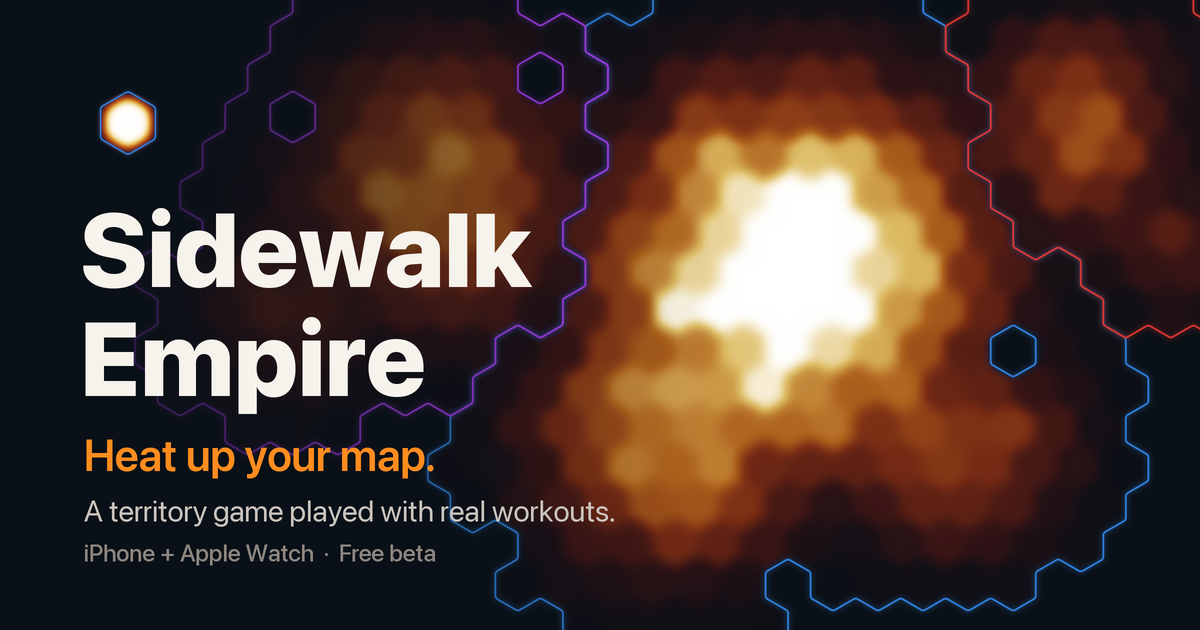
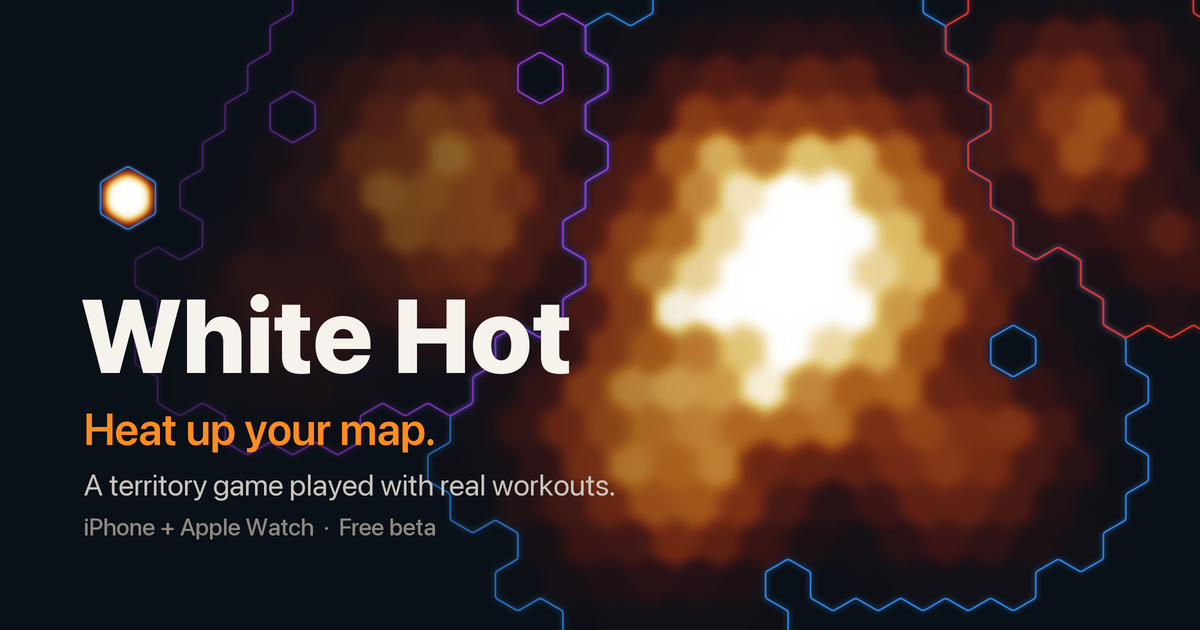
Back to White Hot until the new name is settled
Reverts "The game is Sidewalk Empire". Ben's condition for going ahead with that
name (the Sidewalk Empire Media YouTube channel quiet for two years) isn't met:
it posted on 2026-11-18. The change went up early on Claude's misreading.

Changed region(s): [[0.0617, 0.1508, 0.5242, 0.9048]]

diff --git a/index.html b/index.html
@@ -3,13 +3,13 @@
 <head>
   <meta charset="utf-8" />
   <meta name="viewport" content="width=device-width, initial-scale=1" />
-  <title>Sidewalk Empire: Heat up your map</title>
+  <title>White Hot: Heat up your map</title>
   <meta name="description" content="A territory game you play by working out. Every unclaimed tile you cross becomes yours, and it heats up each time you come back, from dull red to white hot. iPhone + Apple Watch." />
   <meta name="theme-color" content="#0a1017" />
 
   <!-- Open Graph / sharing -->
   <meta property="og:type" content="website" />
-  <meta property="og:title" content="Sidewalk Empire: Heat up your map" />
+  <meta property="og:title" content="White Hot: Heat up your map" />
   <meta property="og:description" content="A territory game you play by working out. Every unclaimed tile you cross becomes yours, and it heats up each time you come back. iPhone + Apple Watch." />
   <meta property="og:image" content="https://whitehot.yourstrategy.co/og-image.png" />
   <meta name="twitter:card" content="summary_large_image" />
@@ -21,7 +21,7 @@
 <body>
 
   <header class="site-header">
-    <a class="wordmark" href="#top"><img class="wordmark-icon" src="assets/app-icon.png" alt="" />Sidewalk Empire</a>
+    <a class="wordmark" href="#top"><img class="wordmark-icon" src="assets/app-icon.png" alt="" />White Hot</a>
     <a class="btn btn-glass btn-sm" href="https://testflight.apple.com/join/whPgeGpH">Join the beta</a>
   </header>
 
@@ -48,7 +48,7 @@
 
         <div class="hero-art">
           <div class="phone">
-            <img src="assets/screenshot.jpg" alt="Sidewalk Empire: a player's territory glowing from red to white hot on the map, with neighbours' borders at the edges" class="phone-screen" />
+            <img src="assets/screenshot.jpg" alt="White Hot: a player's territory glowing from red to white hot on the map, with neighbours' borders at the edges" class="phone-screen" />
           </div>
         </div>
       </div>
@@ -177,7 +177,7 @@
 
   <footer class="site-footer">
     <div class="wrap footer-inner">
-      <span class="footer-mark">Sidewalk Empire</span>
+      <span class="footer-mark">White Hot</span>
       <span class="footer-copy">© 2026</span>
     </div>
   </footer>

diff --git a/styles.css b/styles.css
@@ -1,4 +1,4 @@
-/* Sidewalk Empire — the game's own look (2026-10-21): the dark map's ground, the heat ramp
+/* White Hot — the game's own look (2026-10-21): the dark map's ground, the heat ramp
    tiles glow on (dull red → cherry → orange → yellow → white hot, App/ReverdureApp/
    Map/HeatRamp.swift), the ember the play button wears, and Liquid Glass panels.
    Mobile-first. The share landing page (server/app/routes/share.py) copies these
@@ -92,9 +92,6 @@ h1, h2, h3 { color: var(--ink); margin: 0; letter-spacing: -0.02em; }
   font-weight: 800; font-size: 1.15rem; letter-spacing: -0.01em;
 }
 .wordmark-icon { width: 30px; height: 30px; border-radius: 8px; }
-/* The name is fifteen letters: keep it on one line, smaller on the narrowest phones. */
-.wordmark { white-space: nowrap; }
-@media (max-width: 360px) { .wordmark { font-size: 1rem; gap: 8px; } }
 
 /* BUTTONS — capsules, the app's */
 .btn {

diff --git a/tools/make_assets.py b/tools/make_assets.py
@@ -1,10 +1,10 @@
-"""Sidewalk Empire's site art (2026-10-21), from territory drawn by the game's own map code:
+"""White Hot's site art (2026-10-21), from territory drawn by the game's own map code:
 the game repo's ``scripts/brand/render-territory`` bakes ground through the app's
 ``HeatField`` (the map's heat overlay) with its borders, the way the map draws it.
 
-    # in the game repo (SidewalkEmpire):
-    swiftc -O -o /tmp/render-territory App/SidewalkEmpireApp/Map/HeatRamp.swift \
-        App/SidewalkEmpireApp/Map/HeatField.swift App/SidewalkEmpireApp/Map/RoundedPath.swift \
+    # in the game repo (Reverdure):
+    swiftc -O -o /tmp/render-territory App/ReverdureApp/Map/HeatRamp.swift \
+        App/ReverdureApp/Map/HeatField.swift App/ReverdureApp/Map/RoundedPath.swift \
         scripts/brand/render-territory/main.swift
     /tmp/render-territory 2400 1400 46 /tmp/territory-hero.png 7
     /tmp/render-territory 2400 1260 52 /tmp/territory-og.png 11
@@ -41,14 +41,12 @@ def og_image(territory_path):
     icon = Image.open(os.path.join(ROOT, "assets", "app-icon.png")).convert("RGB").resize((192, 192), Image.LANCZOS)
     m = Image.new("L", icon.size, 0)
     ImageDraw.Draw(m).rounded_rectangle([0, 0, *icon.size], radius=44, fill=255)
-    img.paste(icon, (160, 150), m)
-    # The name on two lines: on one it runs out of the cold side and onto the heat.
-    d.text((160, 372), "Sidewalk", font=font(208, "Heavy"), fill=(246, 242, 236))
-    d.text((160, 590), "Empire", font=font(208, "Heavy"), fill=(246, 242, 236))
-    d.text((168, 856), "Heat up your map.", font=font(88, "Semibold"), fill=(255, 140, 31))
-    d.text((168, 984), "A territory game played with real workouts.", font=font(60, "Regular"),
+    img.paste(icon, (160, 300), m)
+    d.text((160, 544), "White Hot", font=font(208, "Heavy"), fill=(246, 242, 236))
+    d.text((168, 804), "Heat up your map.", font=font(88, "Semibold"), fill=(255, 140, 31))
+    d.text((168, 932), "A territory game played with real workouts.", font=font(60, "Regular"),
            fill=(201, 196, 189))
-    d.text((168, 1076), "iPhone + Apple Watch  \u00b7  Free beta", font=font(48, "Medium"), fill=(141, 135, 128))
+    d.text((168, 1024), "iPhone + Apple Watch  \u00b7  Free beta", font=font(48, "Medium"), fill=(141, 135, 128))
     img.resize((1200, 630), Image.LANCZOS).save(os.path.join(ROOT, "og-image.png"), optimize=True)
 
 

diff --git a/README.md b/README.md
@@ -1,7 +1,7 @@
-# Sidewalk Empire — marketing site
+# White Hot — marketing site
 
-Static landing page for **Sidewalk Empire** (the iOS + Apple Watch game; White Hot
-until 2026-11-26). Plain HTML/CSS, no build step. Lives in its own public repo so
+Static landing page for **White Hot** (the iOS + Apple Watch game; its codebase is
+still called Reverdure). Plain HTML/CSS, no build step. Lives in its own public repo so
 the game's source stays private. Served by GitHub Pages at
 `https://whitehot.yourstrategy.co` (the old `reverdure.yourstrategy.co` redirects here from the `reverdure-redirect` repo).
 
